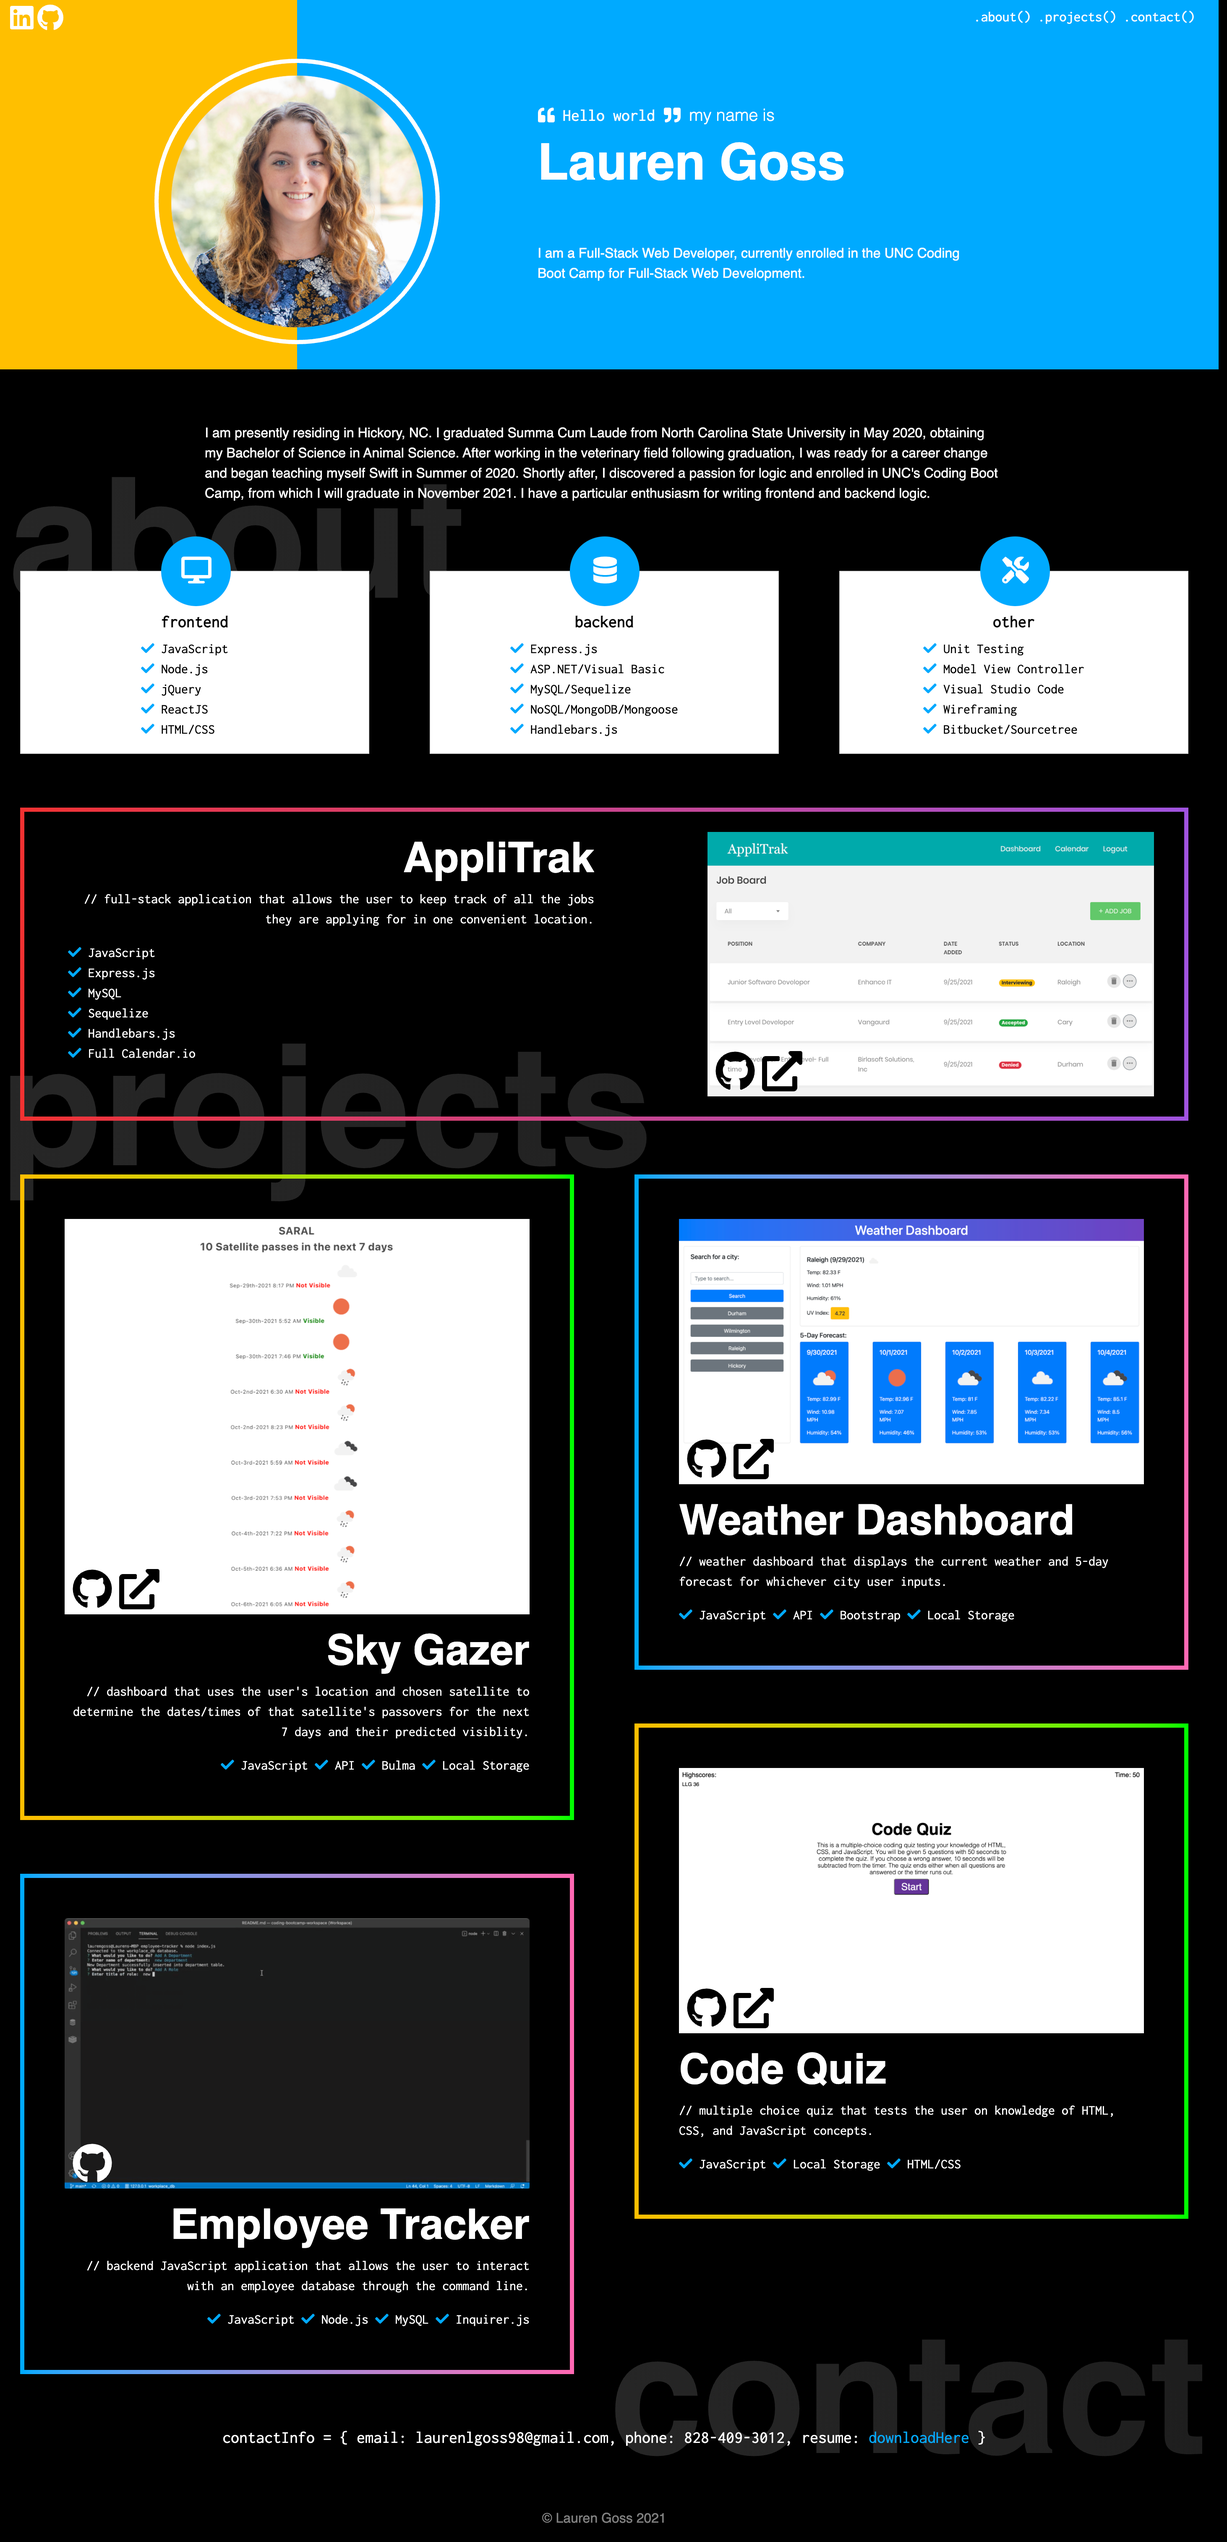
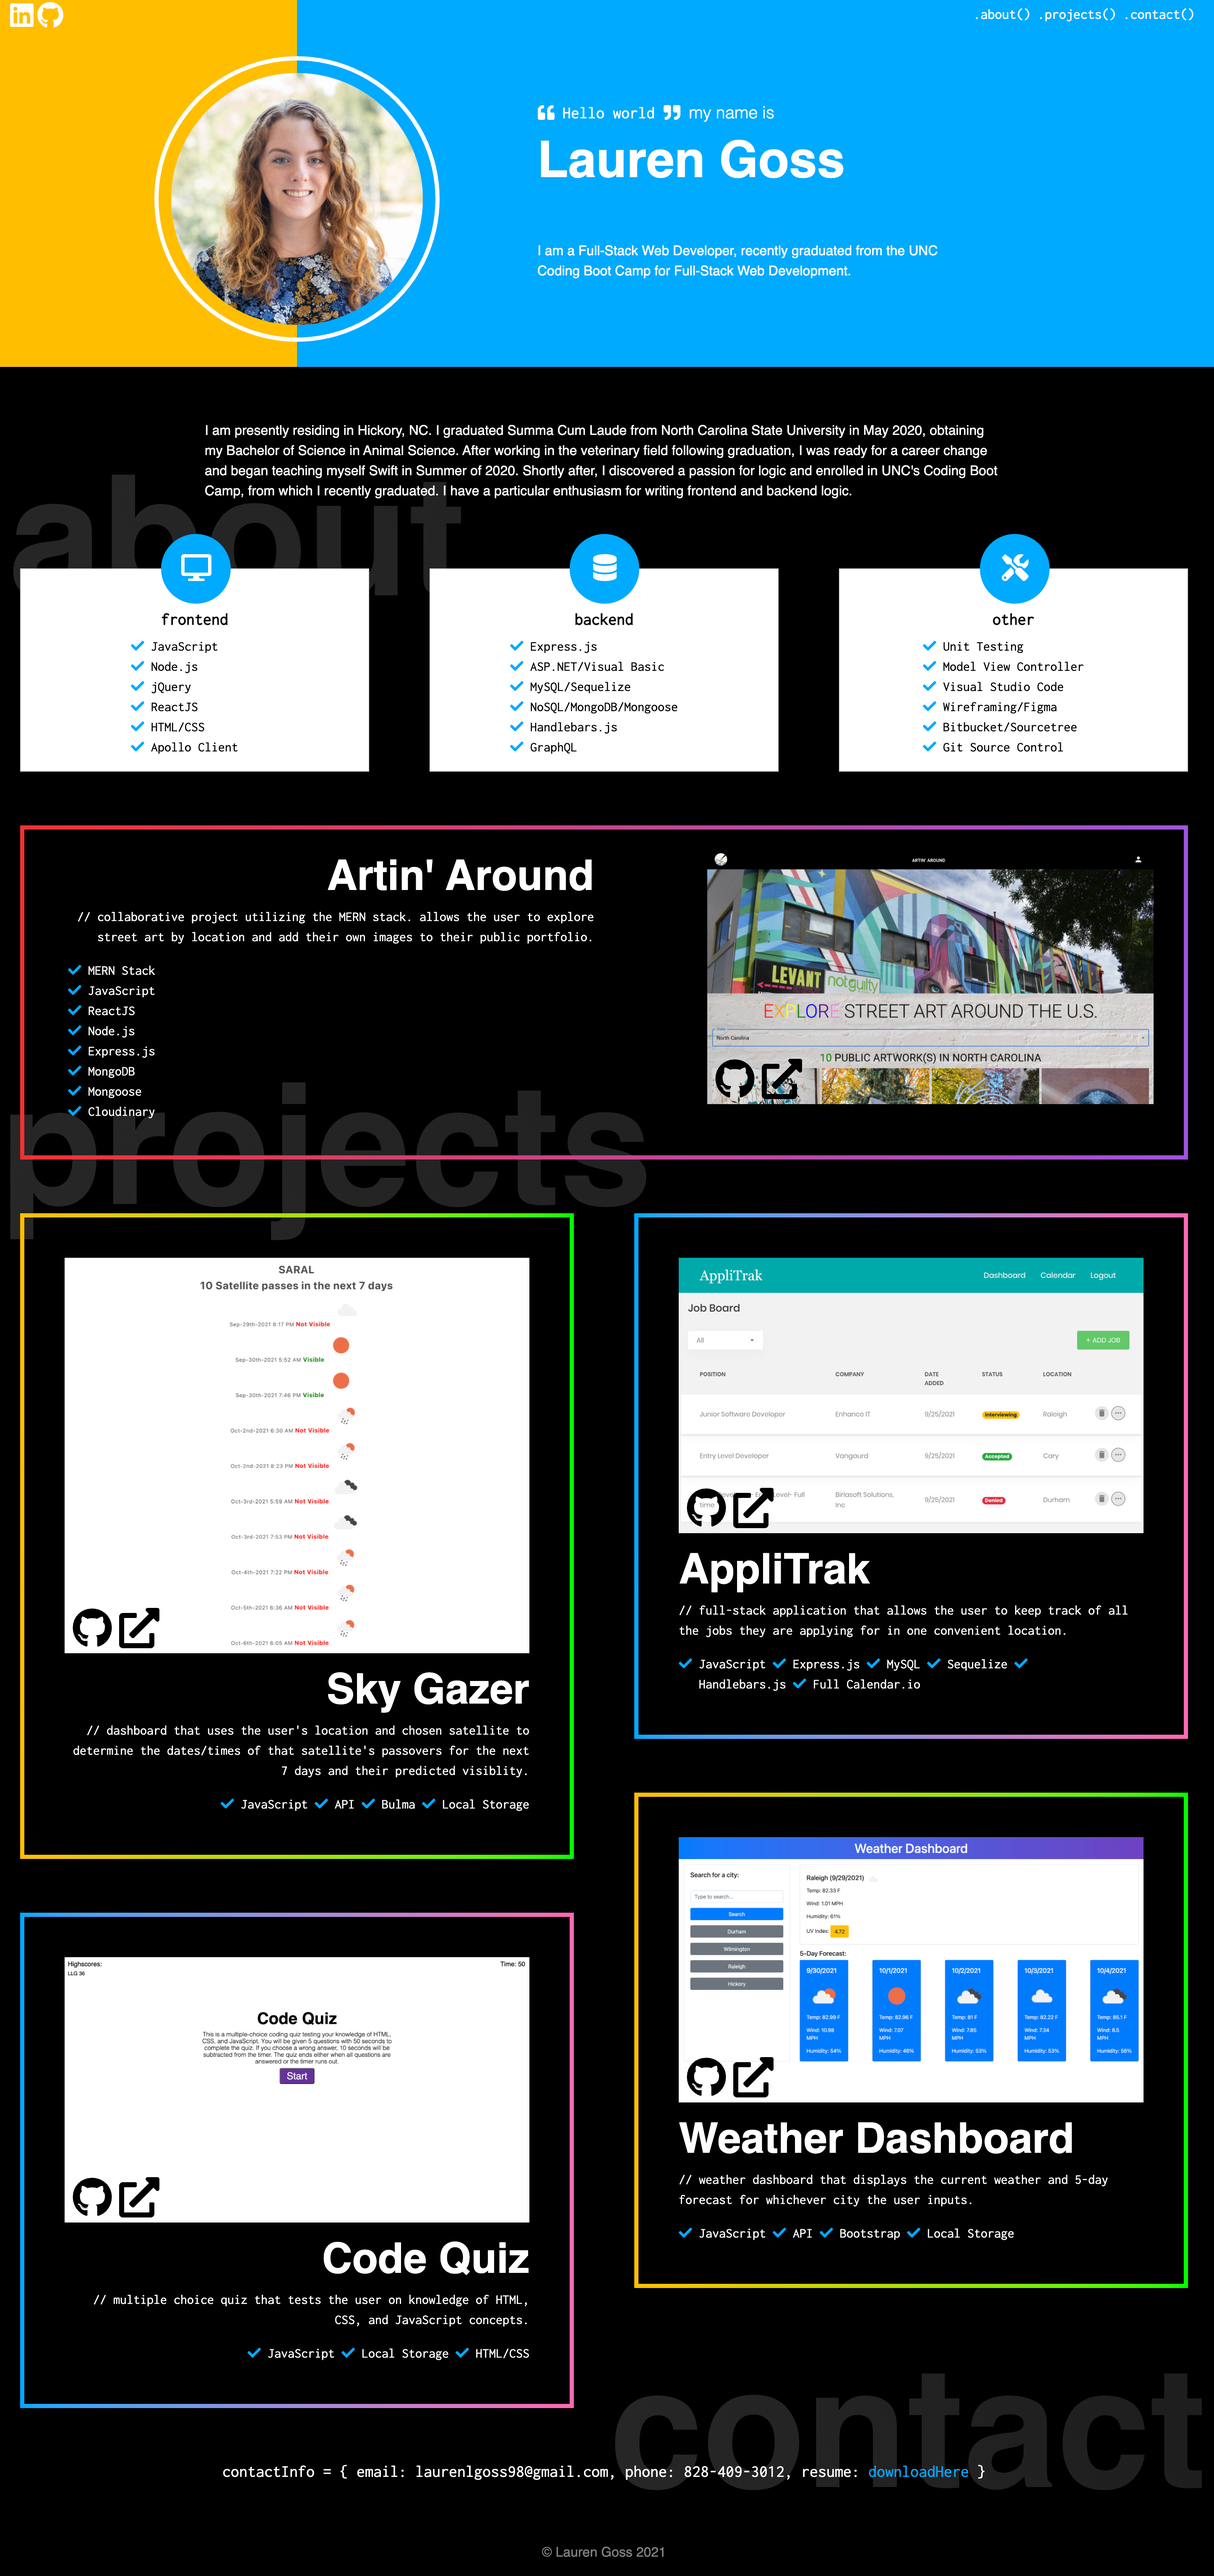
updated readme

diff --git a/src/components/Header.js b/src/components/Header.js
@@ -11,7 +11,7 @@ function Header() {
         <div className="col-9 right-header">
           <div className="row">
             <div className="col-3">
-              <img src={headshotImg} className="headshot" />
+              <img src={headshotImg} className="headshot" alt="Lauren Goss Headshot" />
               <div className="headshot-decoration"></div>
             </div>
             <div className="col-6 align-self-center intro">

diff --git a/README.md b/README.md
@@ -1,12 +1,12 @@
-# lauren-goss-portfolio-react
+# lauren-goss-portfolio-react ![Logo](./src/images/logo25.png)
 
 Portfolio created with React to share some information about myself, showcase my deployed applications, and share my contact information.
 
 ## About Me
 
-I am a Full-Stack Web Developer, currently enrolled in the UNC Coding Boot Camp for Full-Stack Web Development.
+I am a Full-Stack Web Developer, recently graduated from the UNC Coding Boot Camp for Full-Stack Web Development.
 
-I am presently residing in Hickory, NC. I graduated Summa Cum Laude from North Carolina State University in May 2020, obtaining my Bachelor of Science in Animal Science. After working in the veterinary field following graduation, I was ready for a career change and began teaching myself Swift in Summer of 2020. Shortly after, I discovered a passion for logic and enrolled in UNC's Coding Boot Camp, from which I will graduate in November 2021. I have a particular enthusiasm for writing frontend and backend logic.
+I am presently residing in Hickory, NC. I graduated Summa Cum Laude from North Carolina State University in May 2020, obtaining my Bachelor of Science in Animal Science. After working in the veterinary field following graduation, I was ready for a career change and began teaching myself Swift in Summer of 2020. Shortly after, I discovered a passion for logic and enrolled in UNC's Coding Boot Camp, from which I recently graduated. I have a particular enthusiasm for writing frontend and backend logic.
 
 My portfolio can be visited [here](https://laurenlgoss.github.io/lauren-goss-portfolio-react/). 🙂
 
